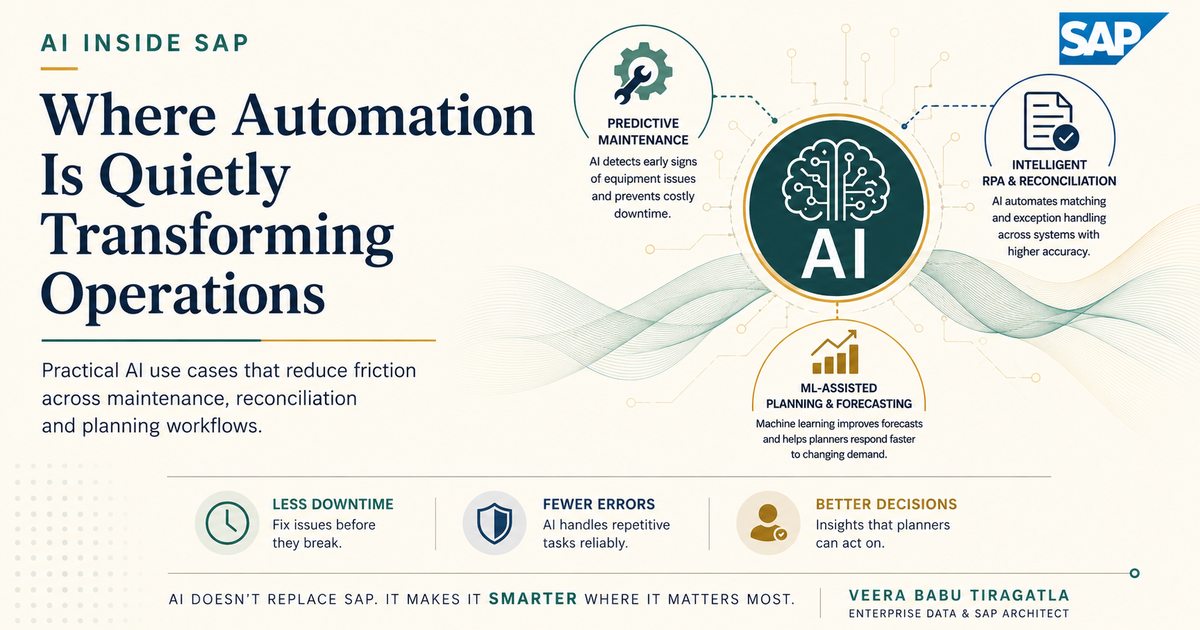
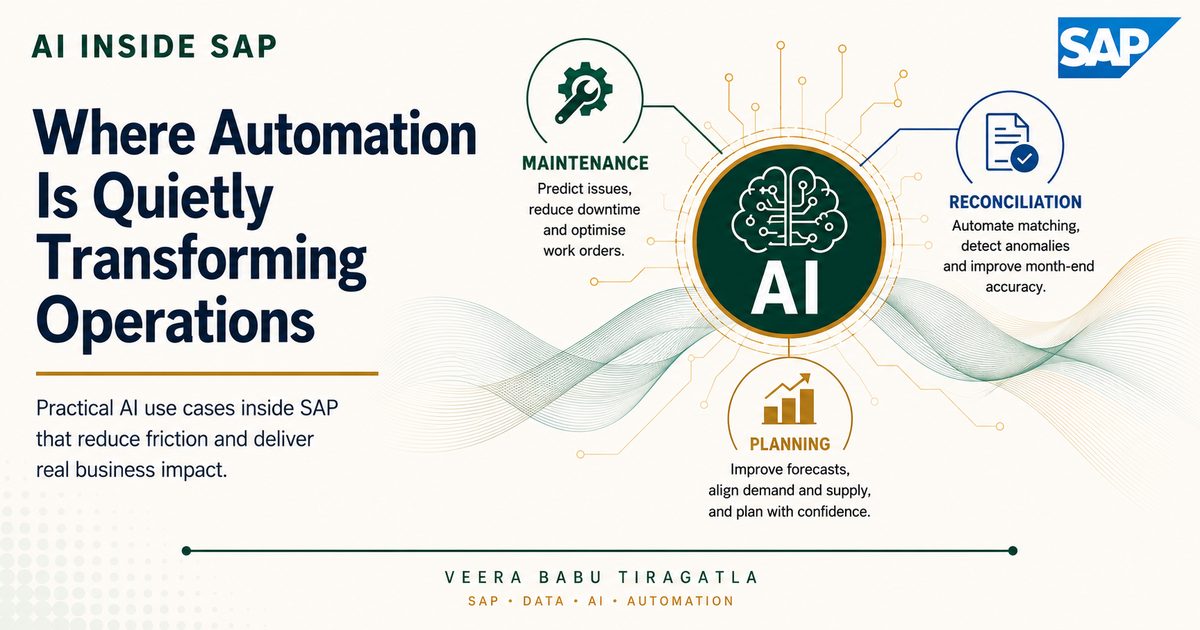
Use concept image for AI Inside SAP hero

Changed region(s): [[0.0308, 0.0, 0.9867, 0.9952], [0.0308, 0.0302, 0.2467, 0.1206], [0.925, 0.9048, 0.9558, 0.9349]]

diff --git a/AI_Inside_SAP.md b/AI_Inside_SAP.md
@@ -6,7 +6,7 @@ description: "A practical look at how AI is reducing friction inside SAP mainten
 image: /assets/images/ai-inside-sap-og.png
 ---
 
-![AI inside SAP](/ai-inside-sap.png)
+![AI inside SAP automation across maintenance, reconciliation and planning](/assets/images/ai-inside-sap-og.png)
 
 # AI Inside SAP: Where Automation Is Quietly Transforming Operations
 
